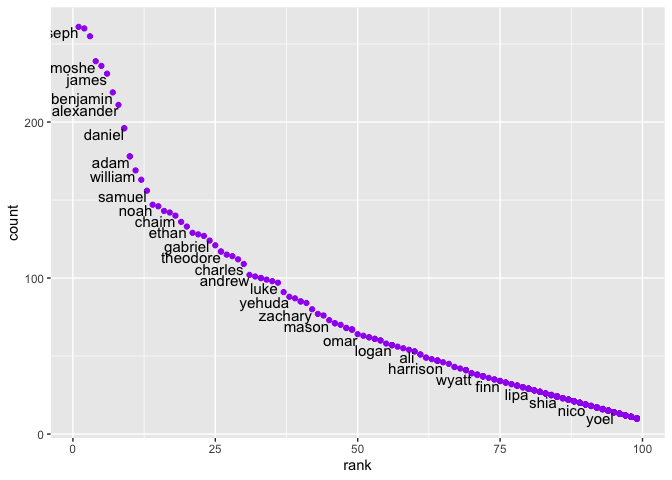
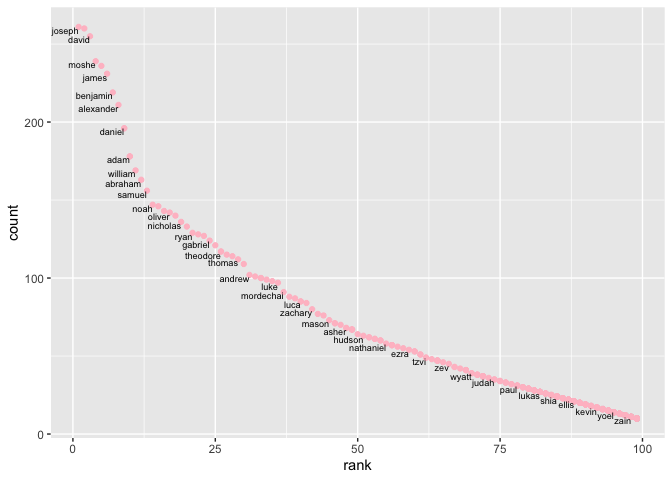
Making it even more aesthetic

Changed region(s): [[0.0625, 0.125, 0.9688, 0.9062], [0.0625, 0.0312, 0.1562, 0.0938]]

diff --git a/p8105_hw2_mk4208.md b/p8105_hw2_mk4208.md
@@ -86,19 +86,19 @@ precipitation_full = full_join(precipitation_2017, precipitation_2018) %>%
 
 # Here is a short description of the 2 datasets:
 
-  - For the precipitation dataset, there are **19 observations**.
+###### For the precipitation dataset:
 
+  - There are **19 observations**.
   - It contains the following variables: **month, total, year**.
-
   - The total precipitation in the year 2018 was **23.5**.
 
-  - For the Mr. Trash Wheel dataset, there are **344 observations**.
+###### For the Mr. Trash Wheel dataset,
 
+  - There are **344 observations**.
   - It contains the following variables: **dumpster, month, year, date,
     weight\_tons, volume\_cubic\_yards, plastic\_bottles, polystyrene,
     cigarette\_butts, glass\_bottles, grocery\_bags, chip\_bags,
     sports\_balls, homes\_powered**.
-
   - The median number of sports balls in a dumpster in 2017 was **8**.
 
 <!-- end list -->
@@ -276,12 +276,12 @@ popular_baby_names %>%
          ethnicity == "white non hispanic", 
          year_of_birth == 2016) %>%
   ggplot(aes(x = rank, y = count)) +
-  geom_point(colour="purple") + 
+  geom_point(colour="pink") + 
   geom_text(aes(label=childs_first_name),
             hjust=1, 
             vjust=1, 
             check_overlap = TRUE,
-            size = 4)
+            size = 2.4)
 ```
 
 ![](p8105_hw2_mk4208_files/figure-gfm/unnamed-chunk-10-1.png)<!-- -->
